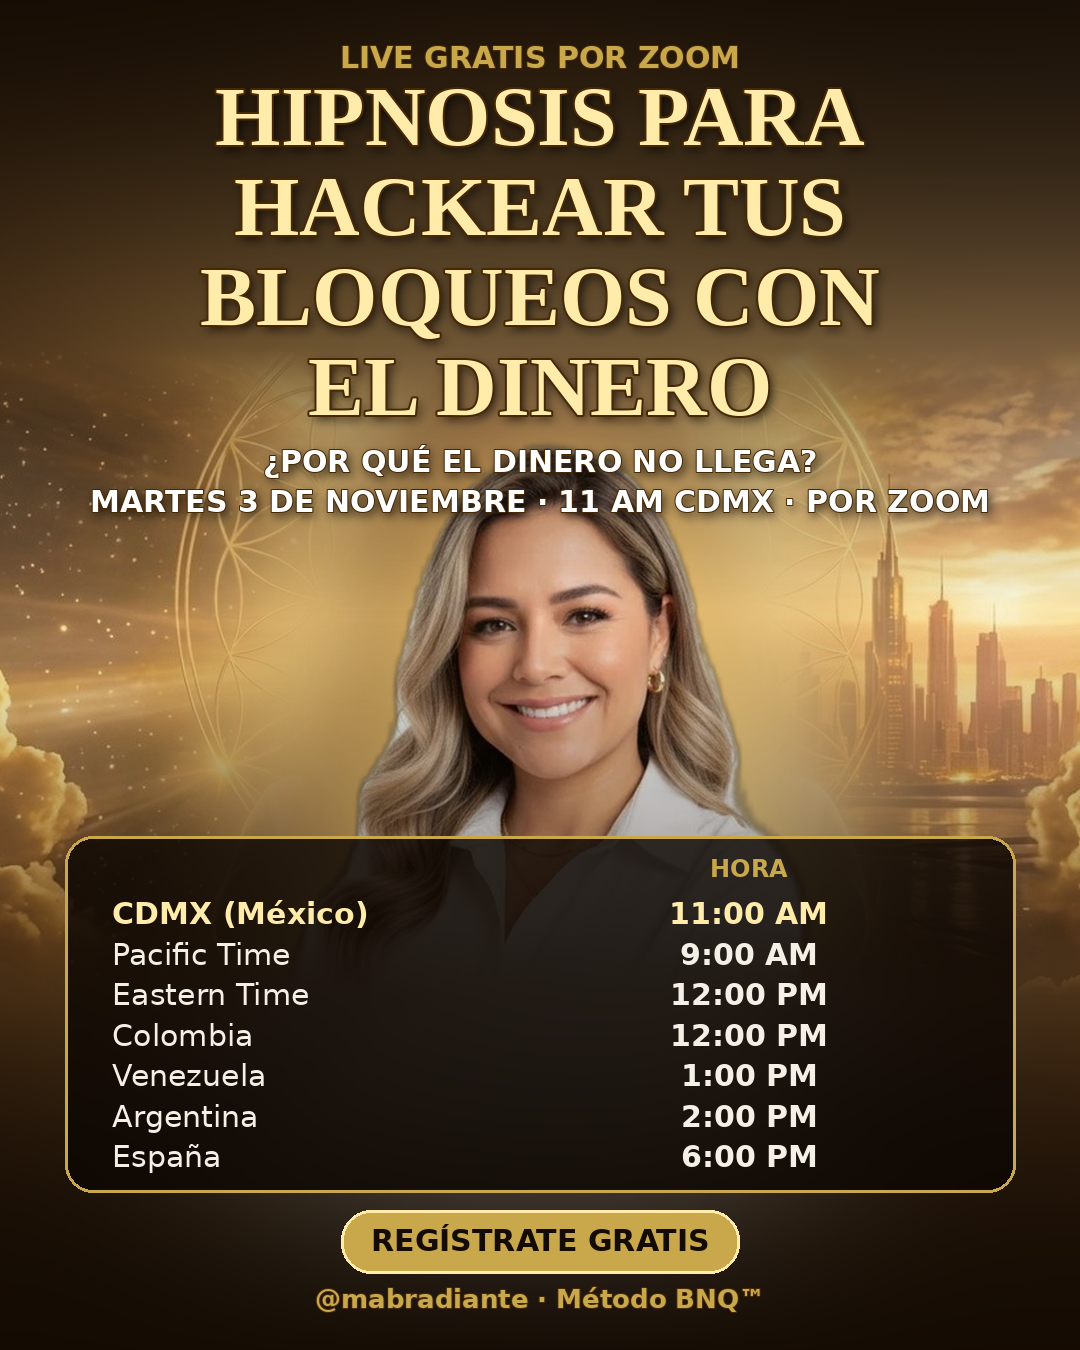
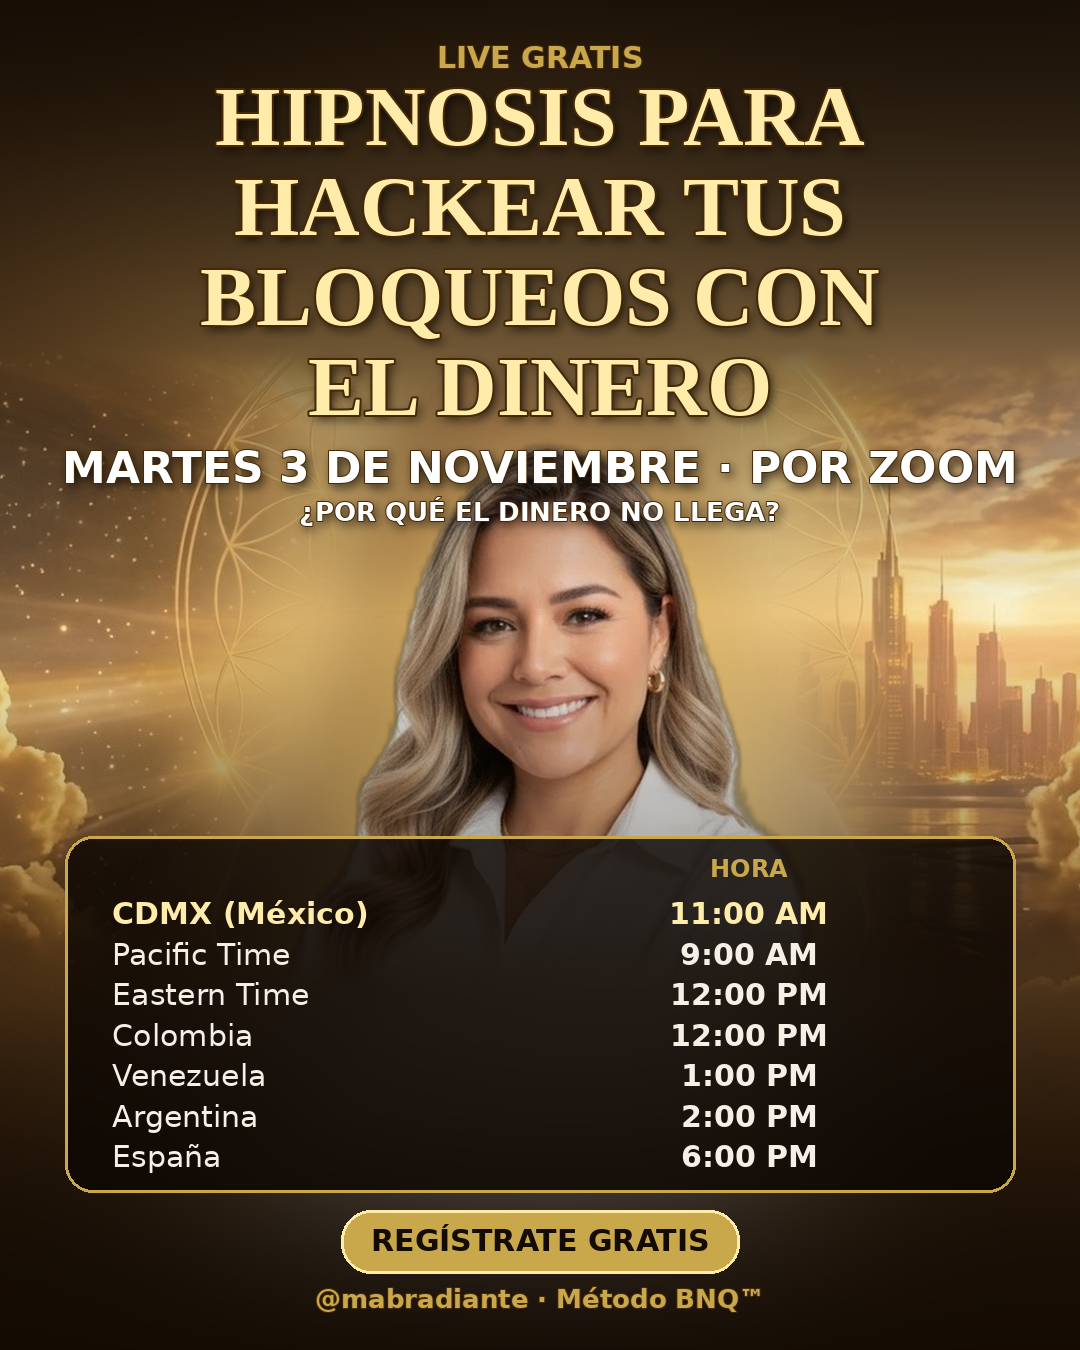
Productor + Estratega: arte con la fecha grande y sin hora; camino de registro a WhatsApp y cuenta de anuncios de mabradiante
Claude-Session: https://claude.ai/code/session_011Fny2nKCcacyQTkz6nAHd2

Changed region(s): [[0.0611, 0.3111, 0.9472, 0.4044], [0.3056, 0.0311, 0.7028, 0.0622]]

diff --git a/nica-apify/live/artes_live.py b/nica-apify/live/artes_live.py
@@ -172,13 +172,14 @@ def arte_v2(variante, uso, w, h):
     img = oscurecer(img, 0, int(h * 0.46), True)
     img = oscurecer(img, int(h * 0.45), h, False, 250)
     y = h * 0.03
-    y = texto(img, "LIVE GRATIS POR ZOOM", SANS_B, 30 * k, y, color=ORO, sombra=False)
+    y = texto(img, "LIVE GRATIS", SANS_B, 30 * k, y, color=ORO, sombra=False)
     tam = 66 if cuadrado else 84
     for linea in TITULO_V2:
         y = texto(img, linea, SERIF, tam * k, y - 4 * k, color=ORO_CLARO, maximo=w * 0.9)
+    # Mabel (28-oct): la fecha es lo 2.º más grande y sin hora (la hora va en la tabla)
+    y = texto(img, FECHA, SANS_B, (40 if cuadrado else 46) * k, y + 8 * k, color=(255, 255, 255), maximo=w * 0.92)
     if variante == "dolor":
-        y = texto(img, GANCHO, SANS_B, 30 * k, y + 10 * k, color=(255, 255, 255), maximo=w * 0.88)
-    y = texto(img, FECHA, SANS_B, 30 * k, y + 6 * k, color=(255, 255, 255))
+        y = texto(img, GANCHO, SANS_B, 26 * k, y + 4 * k, color=(255, 255, 255), maximo=w * 0.8)
     px_tabla = (25 if cuadrado else 30) * k
     alto_tabla = px_tabla * (1.4 + 1.35 * len(HORARIOS)) + 30 * k
     pie = 60 * k + px_tabla * 2.6

diff --git a/nica-apify/briefs/plan-live-2026-11-03.md b/nica-apify/briefs/plan-live-2026-11-03.md
@@ -75,3 +75,10 @@ Configuración propuesta en `briefs/plan-live-2026-11-03.md` (esta sección). Na
 - Anuncios: A1 arte «Dolor» (`live/artes-2026-11-03/dolor_ads_1080x1350.png` + `_1080x1920.png`) · A2 video V1 cuando Mabel lo grabe.
 - Estimación (no promesa): 30 a 80 registros en total; 6 a 28 personas en vivo sumando los 2 LIVES.
 - Regla: con $100/día no se juzga antes de 3 días. Si el costo por registro pasa de $40, se cambia el arte o el texto.
+
+## ACTUALIZACIÓN 28-oct (2) · Datos que dio Mabel
+- Cuenta de anuncios de mabradiante: **817673470787697** (activa, con forma de pago). Hoy NO tiene página ni Instagram ligados: Mabel debe agregar la página MabRadiante y @mabradiante a esa cuenta.
+- Camino que pidió Mabel: anuncio → registro → grupo de WhatsApp (https://chat.whatsapp.com/BJC04YMPaLc8xAJfH5AzFw) → en el grupo reciben el link de Zoom.
+- Formulario de Brevo (orgánico, botón 1 de Linktree): no se pudo revisar desde la sesión (el dominio sibforms.com está bloqueado en la red de la nube).
+- Recomendación del estratega para los anuncios: formulario de Meta (más barato por registro con $100/día) con botón final "Entrar al grupo de WhatsApp". Respaldo: el lunes 2 se bajan los registros a Brevo y se manda el link de Zoom también por correo.
+- Arte: jerarquía nueva aprobada en proceso (título grande dorado; fecha «MARTES 3 DE NOVIEMBRE · POR ZOOM» grande sin hora; gancho «¿POR QUÉ EL DINERO NO LLEGA?» chico). Muestra: `live/muestra-arte-3nov.png`.
